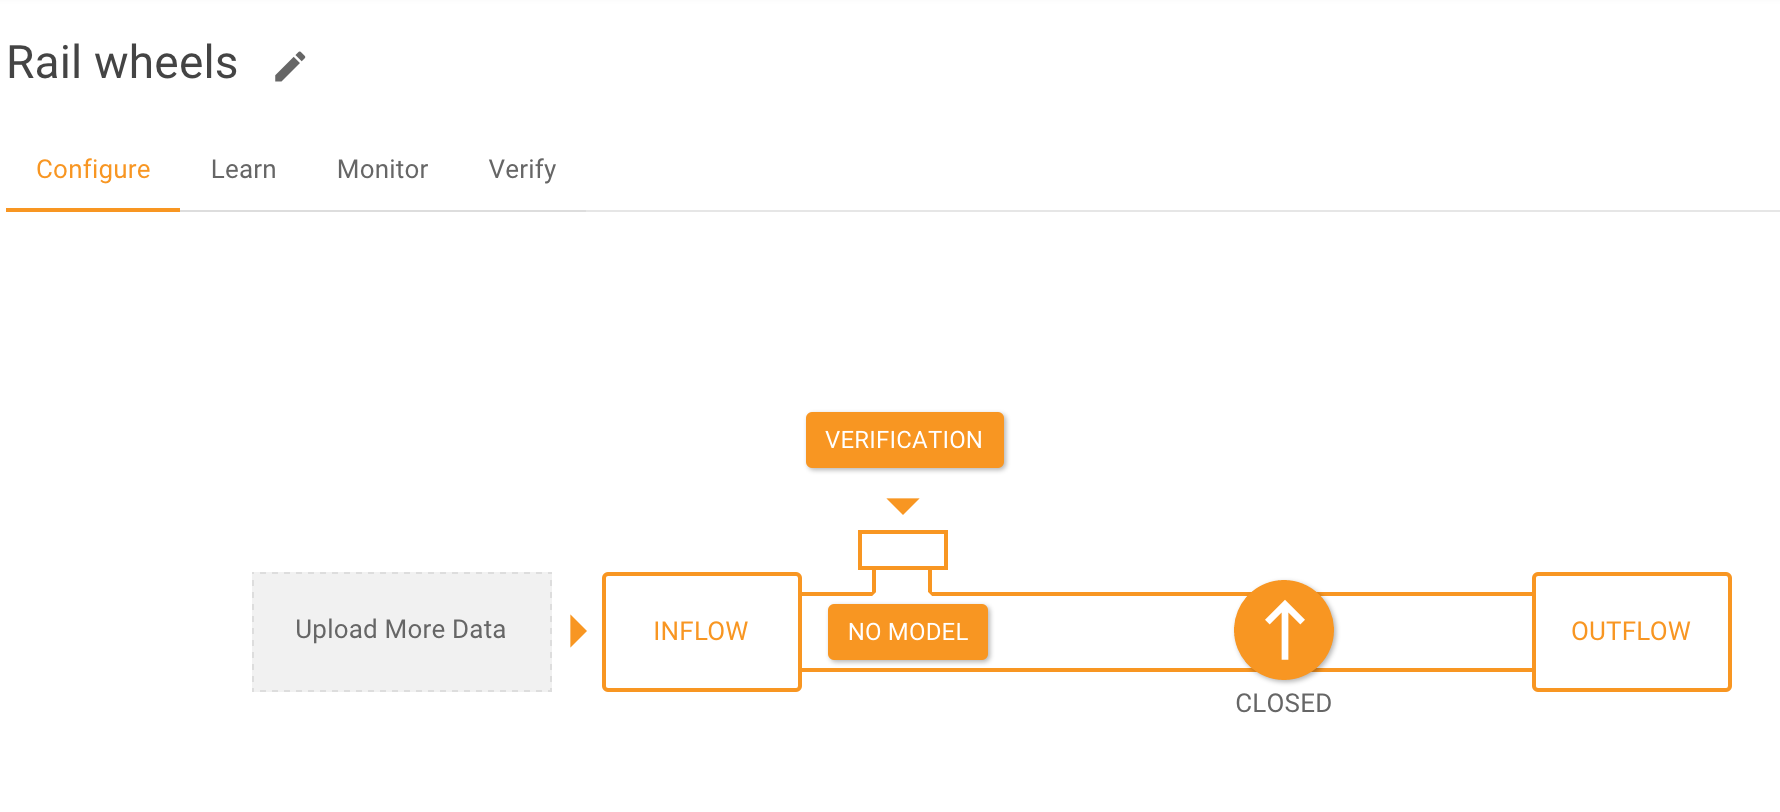
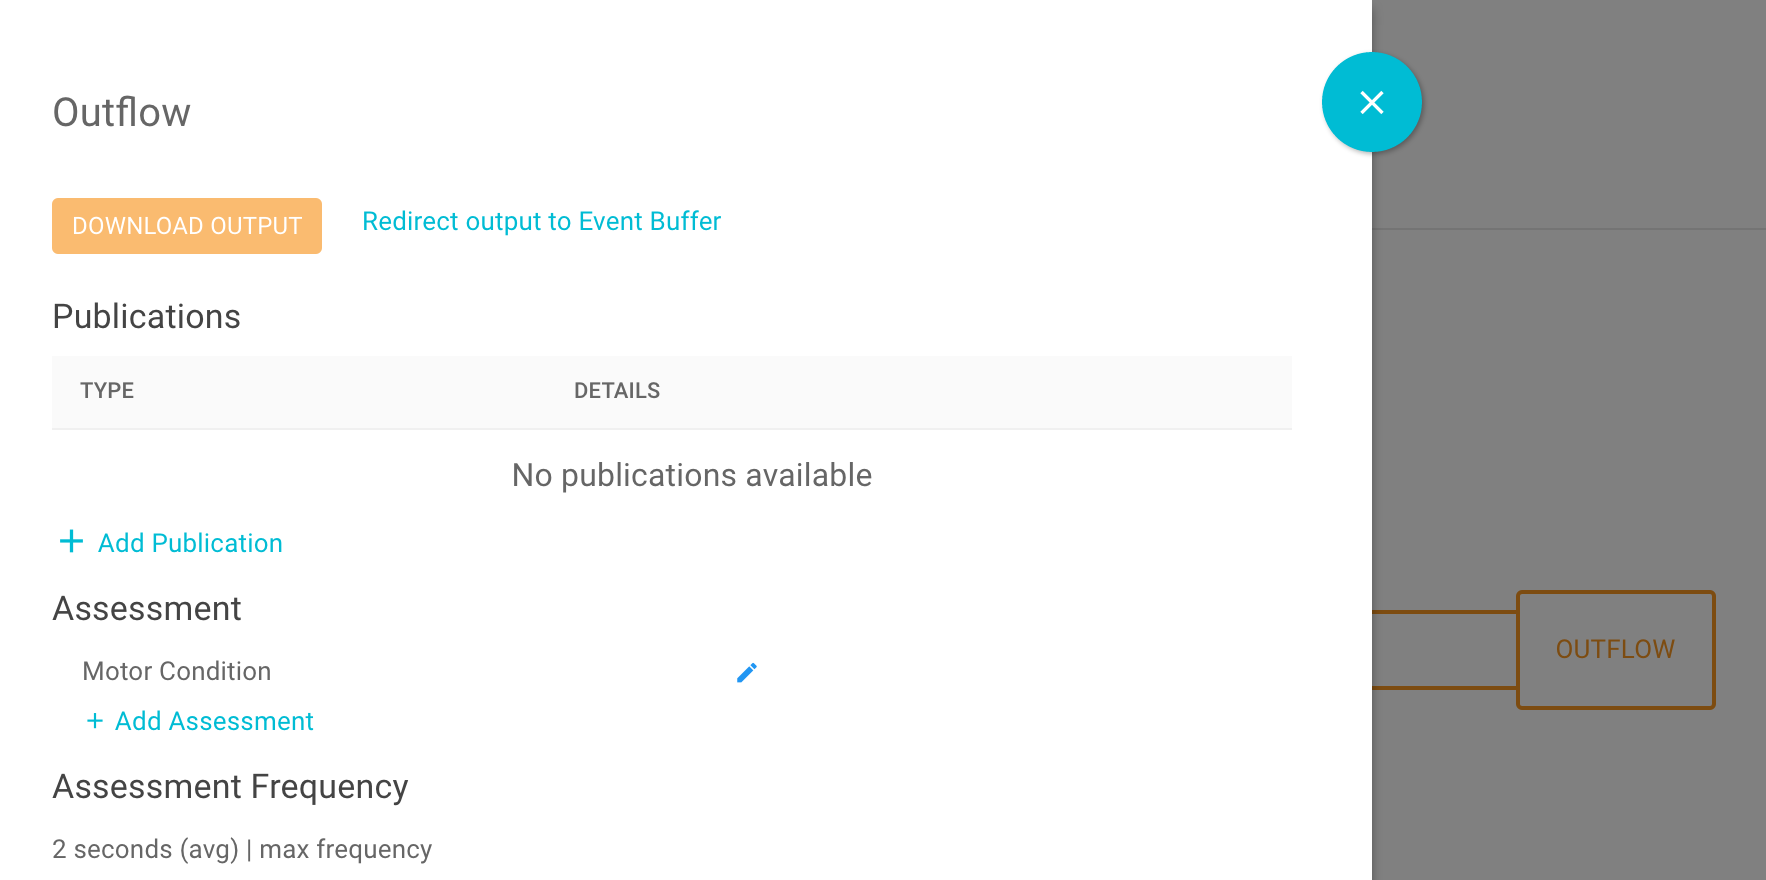
Added new images for product

diff --git a/docs/basic/pipeline.rst b/docs/basic/pipeline.rst
@@ -2,51 +2,58 @@ Pipeline Creation and Learning
 ==============================
 
 In this section, we show how to create a Pipeline and execute the Guided Learning approach
-using the Falkonry Service. We start with a source data set that has several months of 
-wheel force data for a fleet of locomotives. Here is what the data looks like:
+using the Falkonry Service. We start with a source data set that has several electromechanical 
+points of measurement for a single power generator. Here is what the data looks like:
 
-.. image:: ./images/wheel_data.png
+.. image:: ./images/motor_data.png
 
-(1) Create a Prediction Pipeline
+Create a Prediction Pipeline
+----------------------------
 
-First, the user creates a Condition Pipeline that consumes the data set to produce a 
-condition assessment stream, by specifying a data source and specifying which field in the 
-data identifies the Things.
+First, the user creates an Event Buffer using this CSV file and a Condition Pipeline that 
+consumes the event buffer data set to produce a condition assessment stream called Vibration.
+Note that the pipeline does not contain multiple things. Also, the event buffer is set to
+use the ISO 8601 timestamp format as explained in `Data Formatting <./dataformat.html>`_.
 
-.. image:: ./images/pipeline_step1.png
-.. image:: ./images/pipeline_step2.png
-.. image:: ./images/pipeline_step3.png
+.. raw:: html
 
-(2) Start Learning
+   <iframe src="https://player.vimeo.com/video/168553121" width="500" height="281" frameborder="0" allowfullscreen=""></iframe>
 
-After creating the pipeline, the user instructs Falkonry to learn a prediction model from 
+Start Model Revision
+--------------------
+
+After creating the pipeline, the user instructs Falkonry to create a model revision from 
 the data provided, and views the results.
 
-.. image:: ./images/pipeline_learn1.png
+.. raw:: html
 
-Since no verified condition examples were provided, the pipeline was able to identify three 
-different conditions in the data and give them placeholder names - ``unlabeled1`` and
-``unlabeled2``.
+   <iframe src="https://player.vimeo.com/video/168553122" width="500" height="281" frameborder="0" allowfullscreen=""></iframe>
 
-(3) Add Verified Condition Examples
+Since no verified condition examples were provided, the pipeline was able to identify five 
+different conditions in the data and give them placeholder names.
 
-The user examines the available logs and is able to verify some example conditions for 4 
-of the Locomotives.  The user adds these example conditions to the pipeline.
+Add Verification
+----------------
 
-.. image:: ./images/pipeline_verify.png
+The user examines the available maintenance or inspection logs and is able to verify some 
+example conditions.  The user adds these example conditions to the pipeline.
 
-(4) Learn some more
+.. raw:: html
 
-The user initiates a model revision that will incorporate the provided verified conditions.
+   <iframe src="https://player.vimeo.com/video/168709192" width="500" height="281" frameborder="0" allowfullscreen=""></iframe>
 
-The new results show how the user provided conditions (Spalling and Slid Flat) are now 
-predicted across the whole time window, across the fleet of locomotives.  At this point 
+Learn some more
+---------------
+
+The user initiates another model revision that will incorporate the provided verified 
+conditions.
+
+The new results show labeled conditions across the whole time window.  At this point 
 there are still a few conditions that are unrecognized and that maintain computer 
 generated condition labels.
 
-.. image:: ./images/pipeline_learn2.png
-
-(5) Continued Learning and Live Monitoring
+Live Monitoring and Continued Learning 
+--------------------------------------
 
 From the Configure tab, the user can choose to **Open Outflow**, in which case the most 
 recent model revision is used to assess conditions in any existing or newly arriving data.

diff --git a/docs/basic/transfer.rst b/docs/basic/transfer.rst
@@ -3,9 +3,10 @@ Transferring Data
 
 There are three methods by which Source Signal Data can be provided to a Falkonry Pipeline:
 
-- File upload via `Falkonry Service UI <https://service.falkonry.io>`_ 
-- Through a programmatic client using `Falkonry Prediction API <https://service.falkonry.io/api>`_
-- Client application - like the `Falkonry Splunk App <http://falkonry.com/splunk>`_
+- File upload via `Falkonry Service UI <./pipeline.html>`_ 
+- Through a programmatic client using `Falkonry API <../connector/index.html>`_
+- Through an MQTT broker using `event buffer subscriptions <../connector/index.html>`_
+- Client application - like the `Falkonry Splunk App <../splunk_app/index.html>`_
 
 File upload via Falkonry Service UI or API
 ------------------------------------------
@@ -17,28 +18,50 @@ the pipeline using a similar mechanism once the pipeline is live.  The data must
 specific format.
 
 The following figure shows part of a file in the appropriate structure.  The Thing field 
-is named ``car``, and we have three signals ``L1DynVert``, ``L1VertAvg``, & ``L1VertPk``.
+is named ``unit``, and we have four signals ``voltage``, ``current``, ``rpm``, and ``vibration``.
 
-.. image:: ./images/data.png
+.. raw:: html
 
-The three signals above were all of the *numerical* type.  Falkonry supports two types of 
+   <iframe src="https://player.vimeo.com/video/168575780" width="500" height="281" frameborder="0" allowfullscreen=""></iframe>
+
+The four signals above were all of the *Numerical* type.  Falkonry supports two types of 
 source signals:
 
 - Numerical: scalar value of any type of number
 - Categorical: a label that can one of a set of options, represented with a string
 
-More details regarding supported data formats such as CSV files can be found here_.
+More details regarding supported data formats such as CSV and JSON files can be found here_.
 
 .. _here: dataformat.html
+
+Event Buffer subscription to MQTT broker
+----------------------------------------
+
+When a continuous stream of data is required for a pipeline, the data can be delivered to
+Falkonry either through its `Event Buffer REST API <../connector/api/buffer/index.html>`
+or through subscription of the event buffer to an MQTT broker. 
+
+Simple properties of the subscription are specified when the MQTT broker is configured,
+such as its URL, user name, and password. Falkonry treats the data transmission just like
+if individual files are created.
+
+Once a subscription is created, the event buffer will keep receiving 
+
+.. raw:: html
+
+   <iframe src="https://player.vimeo.com/video/168680003" width="500" height="281" frameborder="0" allowfullscreen=""></iframe>
 
 Sending data via a Client application like the Splunk App 
 ---------------------------------------------------------
 
 A client application like the Splunk App allows a user to work with data in a familiar 
-context and to use the app to send data to the Falkonry Service.   In the case of the 
-Splunk App, a user gathers the source signal data they need through a standard Splunk 
-search query.  The figure below shows the display of such a search in the Splunk App.
+context and to use the app to send data to the Falkonry Service. 
 
 .. image:: ./images/splunk.png
 
- 
+With the Splunk App, a user gathers the source signal data they need through a standard 
+search query.  The figure below shows the display of such a search in the Splunk App. Once
+the data has been located, the user creates an event buffer in the App and then uses the
+event buffer in the Falkonry Service to create pipelines.
+
+.. image:: ./images/splunk_export.png

diff --git a/docs/basic/verification.rst b/docs/basic/verification.rst
@@ -22,18 +22,20 @@ match the field name supplied to the Pipeline at setup), and one or more Assessm
 (matching Assessments already configured in the Pipeline).
 
 The figure below shows an example file to upload a set of verified conditions for the 
-Assessment ``L1 Wheel Health``.
+Assessment ``Health``.
 
 .. image:: ./images/verification.png
 
 For a more detail regarding how to format data files for use with Falkonry, 
-please refer here_
-
-.. _here: dataformat.html
+please refer to `Data Formatting <./dataformat.html>`_.
 
 In the Falkonry Service UI the Manage Verification button (available on Learning and 
 Outflow tabs) is used to view all previously entered examples and upload new examples 
 contained in verification files. 
+
+.. raw:: html
+
+   <iframe src="https://player.vimeo.com/video/168553120" width="500" height="281" frameborder="0" allowfullscreen=""></iframe>
 
 Direct entry into Falkonry Service UI
 -------------------------------------
@@ -43,14 +45,16 @@ assessment results for a specific Thing. Users are directly able to add individu
 conditions from the Thing detail view as shown in the figure below.  This dialog is 
 invoked by clicking the Add Verification Example button.
 
-.. image:: ./images/ui_verification.png
+.. raw:: html
+
+   <iframe src="https://player.vimeo.com/video/168709192" width="500" height="281" frameborder="0" allowfullscreen=""></iframe>
 
 Via a client application like the Splunk App
 --------------------------------------------
 
 Falkonry's Splunk App provides a direct way for users to add verification from within their 
-Splunk user experience.  'Add Verification' is an available action for any Pipeline 
-visible on the Manage tab.  Invoking that action produces a dialog shown in the figure 
+Splunk user experience.  **Add Verification** is an available action for any Event Buffer 
+visible on the **Data Exports** list.  Invoking that action produces a dialog shown in the figure 
 below that lets a user create a set of verified condition examples from a Splunk search query.
 
 .. image:: ./images/splunk_verification.png

diff --git a/docs/connector/index.rst b/docs/connector/index.rst
@@ -27,6 +27,5 @@ the `Falkonry UI <../concepts.html>`_ and `Falkonry Splunk App <../splunk_app/in
    :maxdepth: 3
    
    rest
-   mqtt
    python
    javascript
